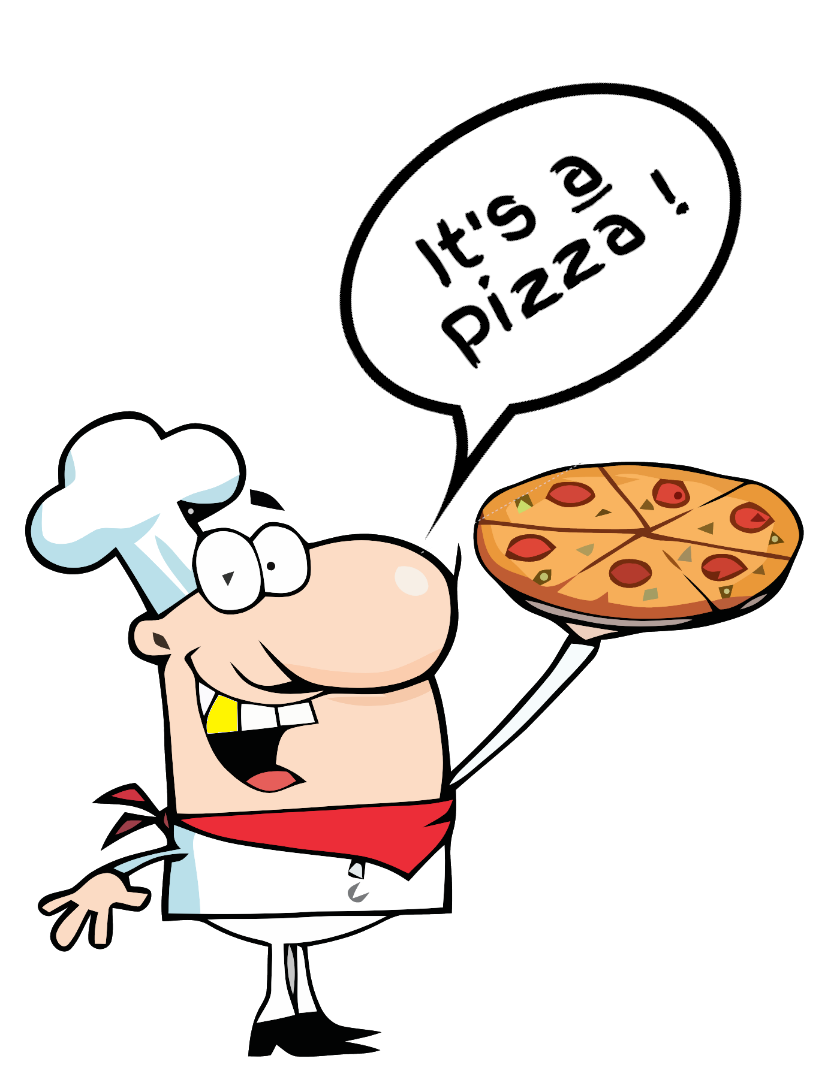
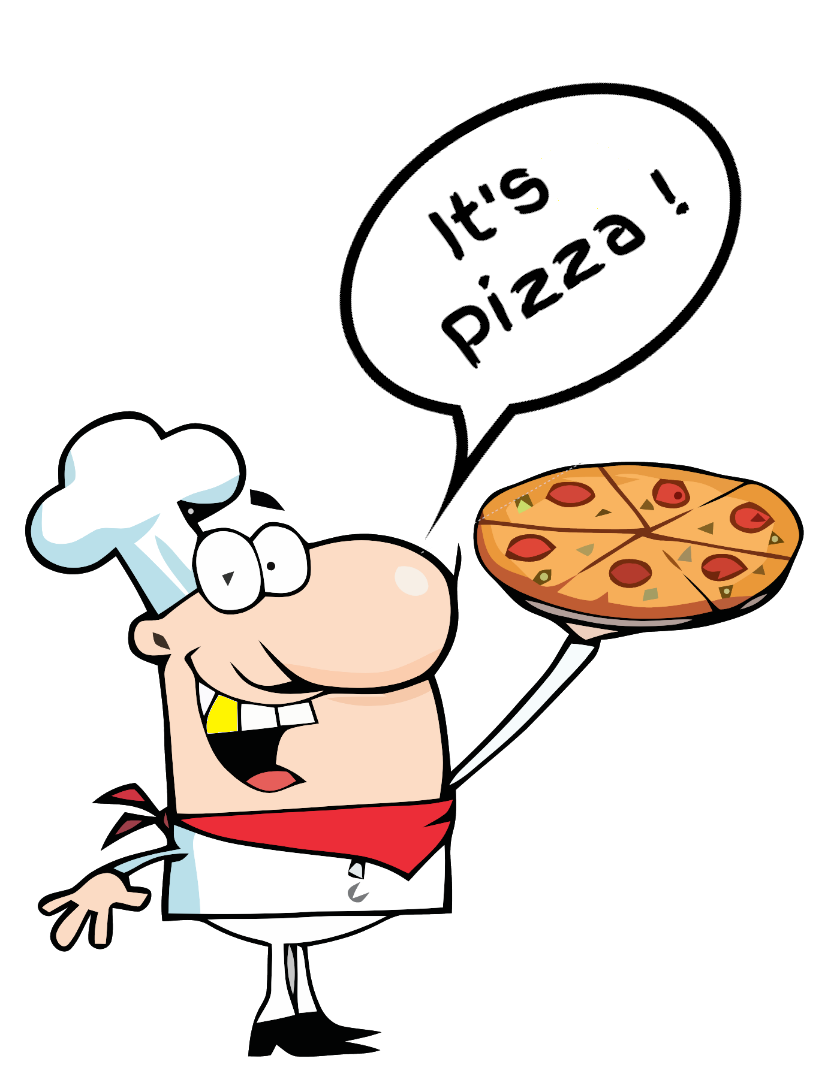
Add files via upload

Changed region(s): [[0.4952, 0.1228, 0.7429, 0.2763]]

diff --git a/src/App.vue b/src/App.vue
@@ -1,49 +1,59 @@
 <template>
-<!--  <Home/>-->
   <div id="chef">
-    <img src="./assets/chef.png" width="500">
-  </div>
-<div id="menu">
-  <div class="title">
-    {{ title }}
-  </div>
-  <div class="box">
-  <div id="header">
-    <div id="leftIcon" class="left-align headerFont">
-      <img src="./assets/leftIcon.png" width="25"> 3
+    <div class="question" style="display: block">
+      <img src="./assets/chefq.png" width="500">
     </div>
-    <div id="logo" class="center-align">
-      <img src="./assets/logo.png" height="50">
-    </div>
-    <div id="rightIcon" class="right-align headerFont">
-      <img src="./assets/rightIcon.png" width="25"> {{increment}}
+    <div class="answer" style="display: none">
+      <img src="./assets/chef.png" width="500">
     </div>
   </div>
-  <div class="content">
-    <img src="./assets/mock.png">
-  </div>
-  <div>
-    <div id="mainButtons">
-      <div id="leftButton" class="pickerBgr" v-on:click="processPicker">
-        <div class="buttonFont">
-        Picker</div></div>
-      <div id="rightButton" class="resultsBgr" v-on:click="processResults">
-        <div class="buttonFont">
-        Results</div></div>
+  <div id="menu">
+    <div class="title">
+      {{ title }}
+    </div>
+    <div class="box">
+      <div id="header">
+        <div id="leftIcon" class="left-align headerFont">
+          <img src="./assets/leftIcon.png" width="25"> 3
+        </div>
+        <div id="logo" class="center-align">
+          <img src="./assets/logo.png" height="50">
+        </div>
+        <div id="rightIcon" class="right-align headerFont">
+          <img src="./assets/rightIcon.png" width="25"> {{increment}}
+        </div>
+      </div>
+      <div class="content">
+        <div id="homeComponent" style="display: block"><Home/></div>
+        <div id="newResultComponent" style="display:none;"><NewResult/></div>
+        <div id="emptyResultComponent" style="display:none;"><EmptyResult/></div>
+      </div>
+      <div>
+        <div id="mainButtons">
+          <div id="leftButton" class="pickerBgr" v-on:click="processPicker">
+            <div class="buttonFont">
+              Picker</div></div>
+          <div id="rightButton" class="resultsBgr" v-on:click="processResults">
+            <div class="buttonFont">
+              Results</div></div>
+        </div>
+      </div>
     </div>
   </div>
-  </div>
-</div>
 
 </template>
 
 <script>
-// import Home from './components/Home.vue'
+import Home from "./components/Home.vue";
+import NewResult from "./components/NewResult.vue";
+import EmptyResult from "./components/EmptyResult.vue";
 
 export default {
   name: 'Pizza Picker',
   components: {
-    // Home
+    Home,
+    NewResult,
+    EmptyResult
   },
   data: function () {
     return {
@@ -52,18 +62,37 @@ export default {
     };
   },
   methods:{
+
+    processPicker(){
+      this.title = "Home";
+      document.getElementsByClassName('pickerBgr')[0].style.background = "white";
+      document.getElementsByClassName('resultsBgr')[0].style.background = "gray";
+      document.getElementsByClassName('question')[0].style.display = "block";
+      document.getElementsByClassName('answer')[0].style.display = "none";
+      this.displayComponent("homeComponent");
+    },
     processResults(){
       this.title = "Empty Result";
       this.increment = this.increment+1;
       document.getElementsByClassName('pickerBgr')[0].style.background = "gray";
       document.getElementsByClassName('resultsBgr')[0].style.background = "white";
+      document.getElementsByClassName('question')[0].style.display = "none";
+      document.getElementsByClassName('answer')[0].style.display = "block";
+      this.displayComponent("emptyResultComponent");
+    },
+    processTellus(){
+      this.title = "New Result";
+      document.getElementsByClassName('question')[0].style.display = "none";
+      document.getElementsByClassName('answer')[0].style.display = "block";
+      this.displayComponent("newResultComponent");
+    },
+    displayComponent(componentName){
+      document.getElementById("homeComponent").style.display = "none";
+      document.getElementById("newResultComponent").style.display = "none";
+      document.getElementById("emptyResultComponent").style.display = "none";
+      document.getElementById(componentName).style.display = "block";
 
     },
-    processPicker(){
-      this.title = "Home";
-      document.getElementsByClassName('pickerBgr')[0].style.background = "white";
-      document.getElementsByClassName('resultsBgr')[0].style.background = "gray";
-    }
   }
 }
 </script>
@@ -119,7 +148,7 @@ body {
   margin: 0;
   position: absolute;
   left: 4%;
-  top: 32%;
+  top: 16%;
 }
 .center-align {
   margin: 0;

diff --git a/src/components/Home.vue b/src/components/Home.vue
@@ -1,37 +1,49 @@
 <template>
   <div class="Home">
-    <h1>{{ title }}</h1>
+    <div class="toviText">
+      What is <img src="./assets/tovi.png"><br>eating for lunch?
+    </div>
+    <div class="tellUs" v-on:click="tellUs">
+      Tell us!
+    </div>
   </div>
 </template>
 
 <script>
-export default {
+
+export default{
   name: 'Home',
-  props: {
-    msg: String
-  },
-  data: function () {
-    return {
-      title: "Home"
-    };
+  methods:{
+    tellUs(){
+     this.$parent.$options.methods.processTellus();
+    }
   }
 }
 </script>
 
 <!-- Add "scoped" attribute to limit CSS to this component only -->
-<style scoped>
-h3 {
-  margin: 40px 0 0;
-}
-ul {
-  list-style-type: none;
-  padding: 0;
-}
-li {
-  display: inline-block;
-  margin: 0 10px;
-}
-a {
-  color: #42b983;
-}
+<style>
+ .toviText{
+   color: rgba(0,0,0,.6);
+   background-color: #fff;
+   text-shadow: rgba(0,0,0,.2) 2px 6px 5px,rgba(255,255,255,.4) 0 -4px 30px;
+   font-size: 45px;
+   padding: 30px;
+ }
+ .tellUs{
+   padding: 20px;
+   border: 3px solid green;
+   margin: 20px;
+   background: ghostwhite;
+   font-size: 25px;
+   width: 215px;
+   border-radius: 20px;
+   cursor: pointer;
+   text-transform: uppercase;
+   text-align: center;
+ }
+ .tellUs:hover{
+   background: white;
+   border: 2px solid green;
+ }
 </style>

diff --git a/src/components/NewResult.vue b/src/components/NewResult.vue
@@ -1,0 +1,48 @@
+<template>
+  <div class="newResult">
+
+    <div class="slice">
+      <img src="./assets/slice.png" width="200">
+    </div>
+    <div class="plate">
+      <img src="./assets/plate.png" width="250">
+    </div>
+    <div class="pizzatext">It's Pizza!</div>
+
+  </div>
+</template>
+
+<script>
+
+export default{
+  name: 'New Result',
+  methods:{
+
+  }
+}
+</script>
+
+<!-- Add "scoped" attribute to limit CSS to this component only -->
+<style>
+.slice{
+  position: absolute;
+  z-index: 1;
+  margin-left: 31%;
+}
+.plate{
+  text-align: center;
+  position: absolute;
+  margin-left: 25%;
+  margin-top: 75px;
+}
+.pizzatext{
+  position: absolute;
+  margin-left: 28%;
+  font-size: 35px;
+  margin-top: 245px;
+  font-weight: bold;
+  color: #fff;
+  text-shadow: -1px 0 black, 0 1px black, 1px 0 black, 0 -1px black;
+  text-transform: uppercase;
+}
+</style>

diff --git a/src/components/EmptyResult.vue b/src/components/EmptyResult.vue
@@ -1,0 +1,37 @@
+<template>
+  <div class="emptyResult">
+
+    <div class="text tipSize">
+      Tip:
+    </div>
+    <div class="text textSize">
+      It's always Pizza.
+    </div>
+  </div>
+</template>
+
+<script>
+
+export default{
+  name: 'Empty Result',
+  methods:{
+
+  }
+}
+</script>
+
+<!-- Add "scoped" attribute to limit CSS to this component only -->
+<style>
+.text{
+  color: rgba(0,0,0,.6);
+  background-color: #fff;
+  text-shadow: rgba(0,0,0,.2) 2px 6px 5px,rgba(255,255,255,.4) 0 -4px 30px;
+  padding: 30px;
+}
+.tipSize{
+  font-size: 15px;
+}
+.textSize{
+  font-size: 30px;
+}
+</style>
